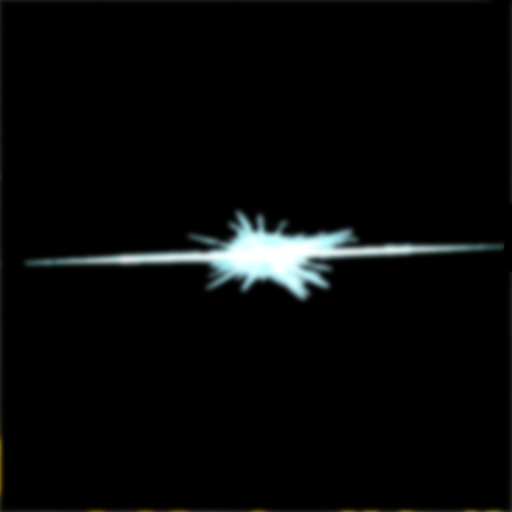
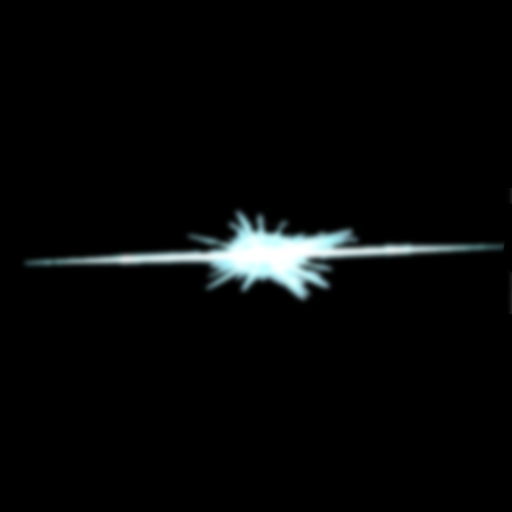
the fixes

Changed region(s): [[0.1562, 0.9688, 0.5312, 1.0], [0.6562, 0.9688, 1.0, 1.0], [0.0, 0.8438, 0.0312, 1.0]]

diff --git a/Assets/Scripts/Multiplayer/NetworkManager.cs b/Assets/Scripts/Multiplayer/NetworkManager.cs
@@ -77,7 +77,7 @@ namespace DigDig2
 
             if (transport.GetType() == typeof(KcpTransport))
             {
-                debugCanvas.gameObject.SetActive(true);
+                //debugCanvas.gameObject.SetActive(true);
             }
         }
 